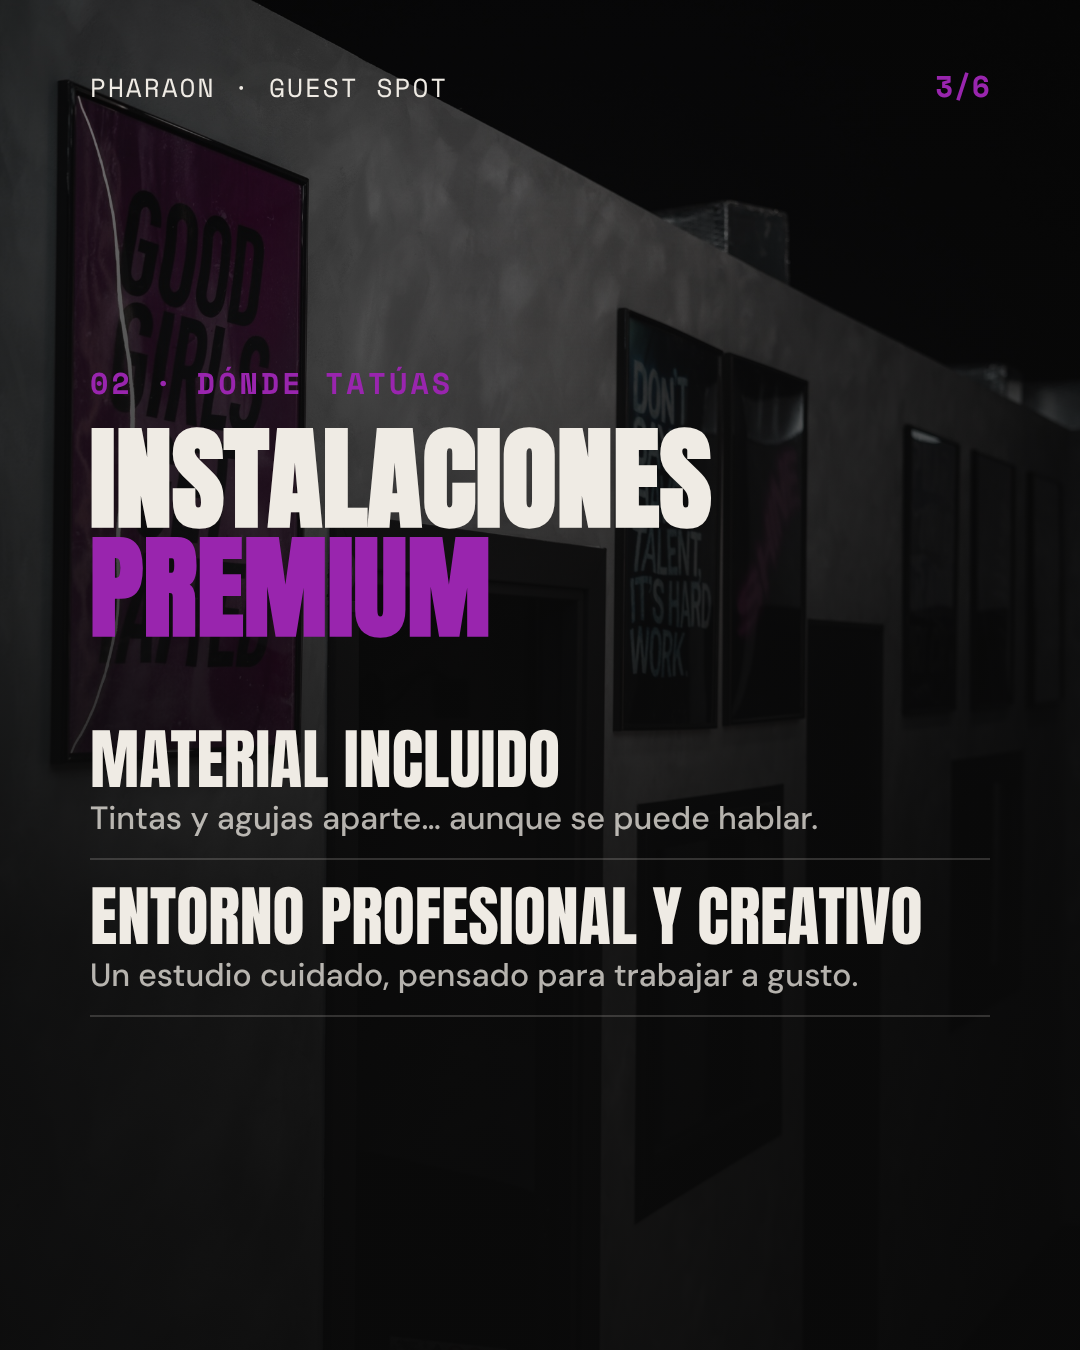
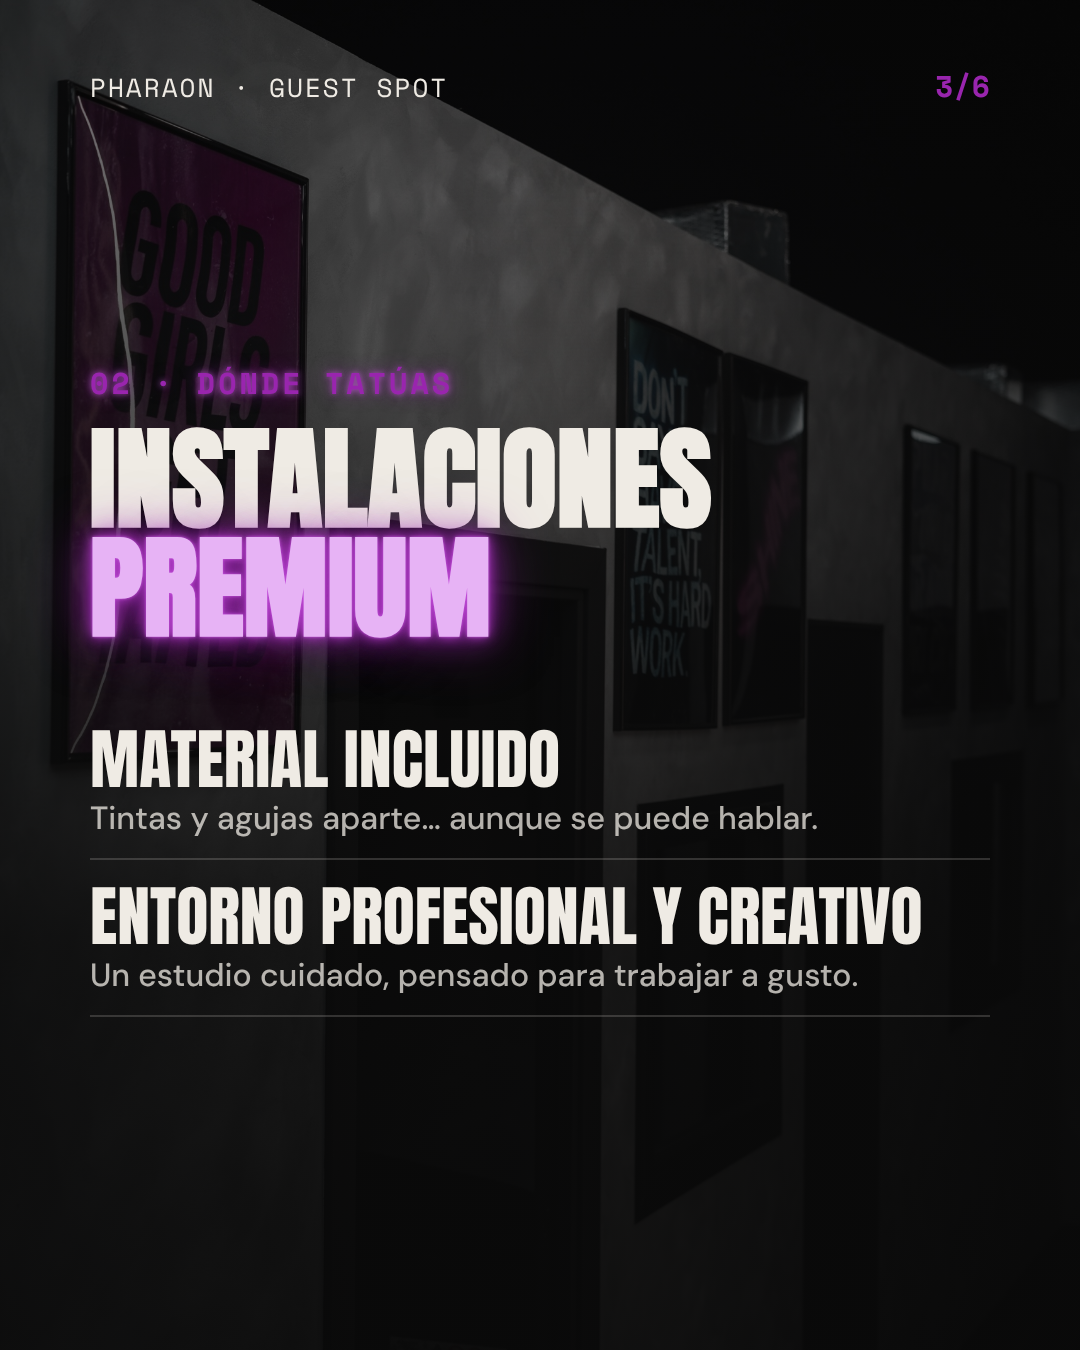
Guest spot: resplandor neón en las palabras lila
Claude-Session: https://claude.ai/code/session_017Rsphfz7JrN2HBs3pyC4Qn

diff --git a/posts/guest/guest.html b/posts/guest/guest.html
@@ -15,6 +15,9 @@
 .num { font-family: 'Space Mono'; font-weight: 700; color: var(--morado); font-size: 30px; letter-spacing: 3px; }
 .chip { display: inline-block; border: 3px solid var(--morado); color: var(--hueso); font-family: 'Space Mono'; font-weight: 700; font-size: 30px; padding: 10px 22px; border-radius: 40px; margin: 0 14px 18px 0; }
 .brillo { text-shadow: 0 0 40px rgba(153,37,174,.65); }
+/* Resplandor neón en las palabras lila (petición del usuario) */
+.morado { color: #E7B3F5; text-shadow: 0 0 3px #C95AE0, 0 0 12px #B13BC8, 0 0 30px rgba(153,37,174,.85), 0 0 60px rgba(153,37,174,.55); }
+.num { text-shadow: 0 0 6px rgba(201,90,224,.8), 0 0 18px rgba(153,37,174,.6); }
 </style></head><body>
 
 <!-- 1 · Portada -->
